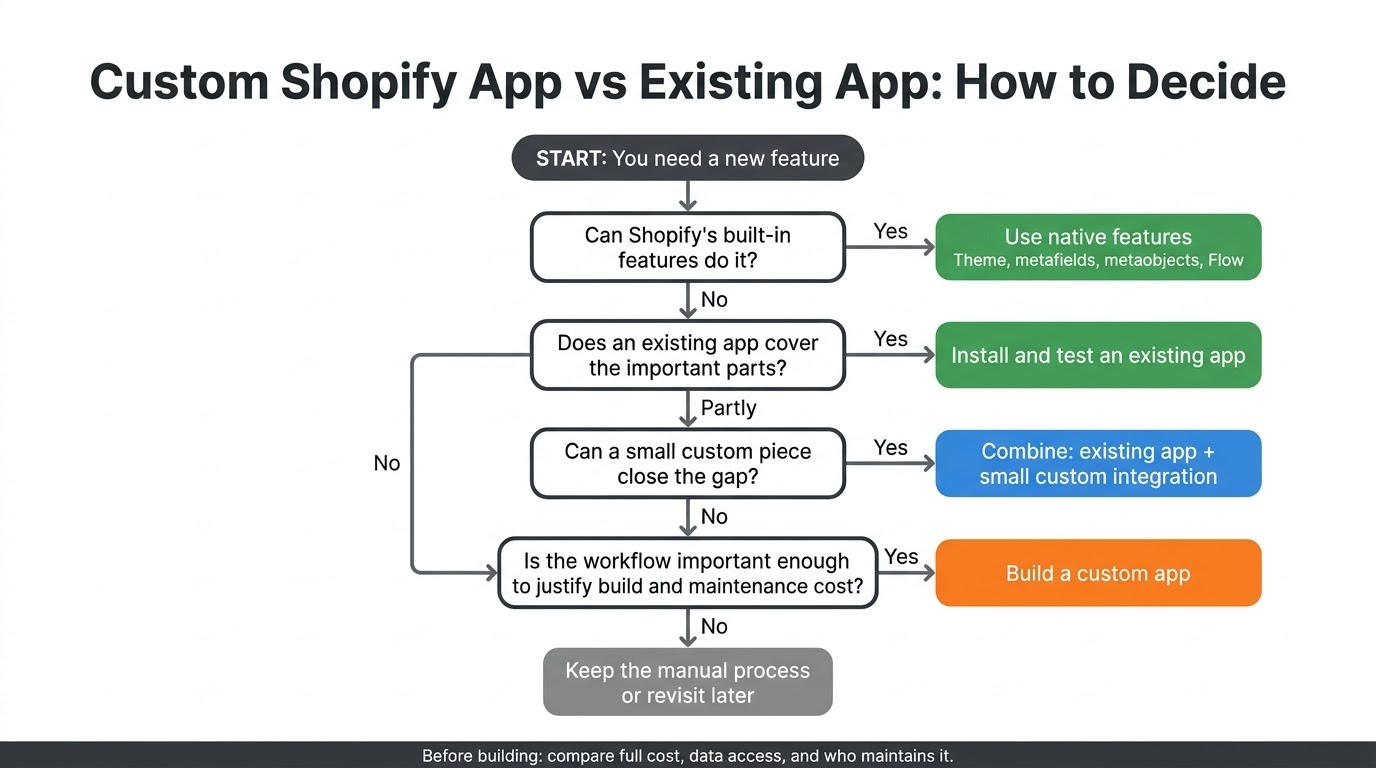
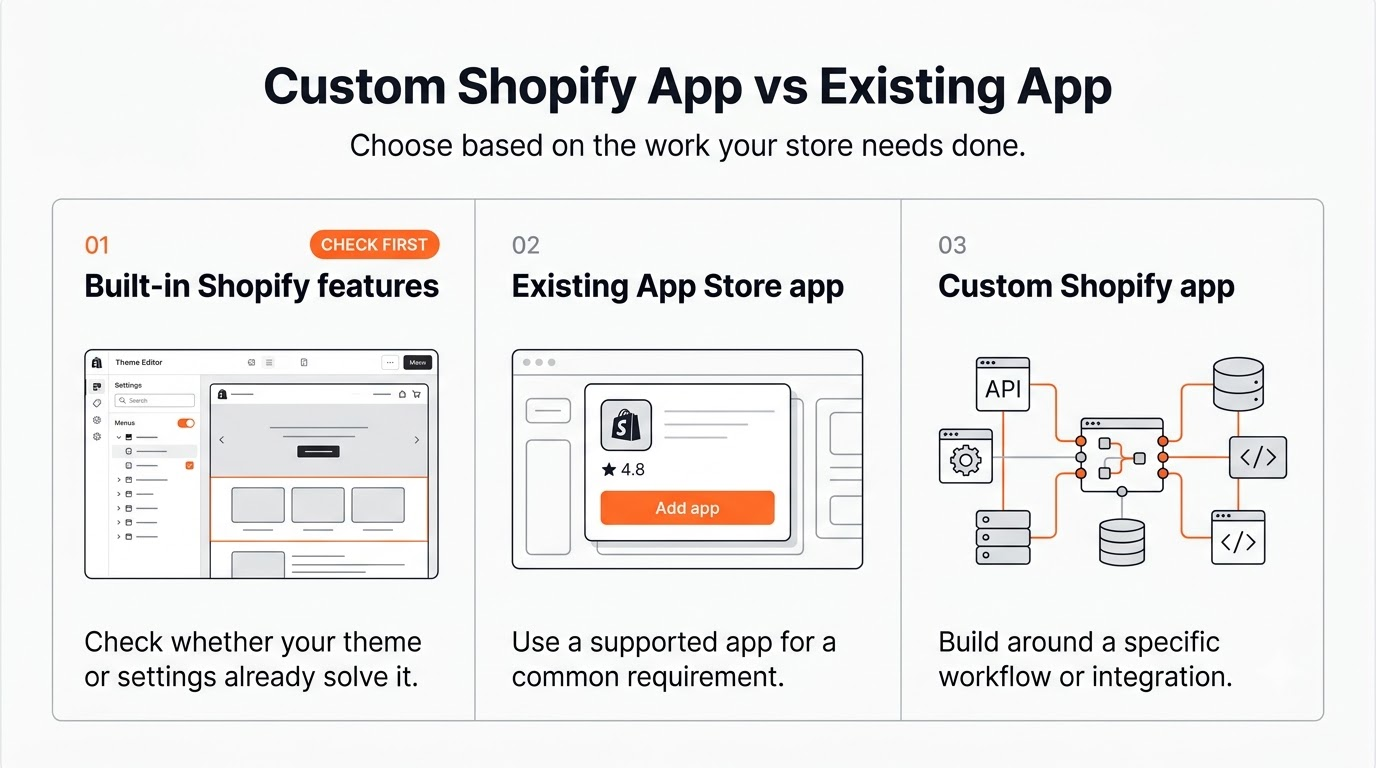
feat: rewrite custom Shopify app vs existing app blog post and add image assets

Changed region(s): [[0.0, 0.0625, 1.0, 1.0], [0.0625, 0.2812, 0.3438, 0.4062], [0.0625, 0.8125, 0.3125, 0.9062]]

diff --git a/src/app/(app)/blog/[slug]/page.tsx b/src/app/(app)/blog/[slug]/page.tsx
@@ -20,7 +20,7 @@ interface BlogPostPageProps {
 }
 
 const headerImageAltBySlug: Partial<Record<string, string>> = {
-  "custom-shopify-app-vs-existing-app": "Decision flowchart for choosing built-in Shopify features, an existing app, or custom development",
+  "custom-shopify-app-vs-existing-app": "Comparison of built-in Shopify features, an existing App Store app, and a custom Shopify app",
   "shopify-store-slow-how-to-fix": "Shopify speed diagnosis workflow for loading, interactions, and layout shifts",
   "woocommerce-to-shopify-migration-problems": "WooCommerce to Shopify migration overview: map data, test the store, and plan redirects",
   "headless-woocommerce-with-nextjs": "A Next.js storefront connects to a WooCommerce backend that manages products, inventory, and orders",
@@ -251,9 +251,7 @@ export default async function BlogPostPage({ params }: BlogPostPageProps) {
                   width={1376}
                   height={768}
                   sizes="(min-width: 1024px) 40vw, 100vw"
-                  className={slug !== "custom-shopify-app-vs-existing-app"
-                    ? "block h-auto w-full bg-white lg:h-full lg:object-contain"
-                    : "block h-auto w-full lg:h-full lg:object-cover"}
+                  className="block h-auto w-full bg-white lg:h-full lg:object-contain"
                 />
               )}
             </div>

diff --git a/content/blog/custom-shopify-app-vs-existing-app(re-write)/index.md b/content/blog/custom-shopify-app-vs-existing-app(re-write)/index.md
@@ -11,7 +11,7 @@ tags:
   - "Shopify integrations"
 date: "2025-02-13"
 updatedAt: "2026-11-03"
-image: "/blog/custom-shopify-app-vs-existing-app/cover.jpg"
+image: "/blog/custom-shopify-app-vs-existing-app/cover.webp"
 faqs:
   - question: "When should I build a custom Shopify app instead of installing an existing app?"
     answer: "Build a custom app when a business workflow matters and neither Shopify's built-in features nor an existing app can handle it reliably. Write down the exact rule or data field that's missing and test it with a real example. If an existing app covers the requirement with acceptable setup and support, use it. If the gap is just a product-page field or a layout change, a metafield and a theme edit may be enough."
@@ -70,6 +70,8 @@ Not every feature needs an app. If you want to add product specifications, a siz
 
 A similar approach applies to simple store design changes. You might only need a [custom theme section](/services/theme-development) or a small amount of Liquid code rather than a separate application with its own database and hosting.
 
+![A product page example shows how structured product information and a theme section can meet a storefront requirement](/blog/custom-shopify-app-vs-existing-app/01-check-built-in-features.webp)
+
 This is worth checking first because every additional tool creates something else to configure, test, and maintain. But don't force a native solution where it cannot meet the requirement. Shopify's built-in features also have limits, and availability can differ by plan.
 
 ## When an existing Shopify app is the better choice
@@ -92,6 +94,8 @@ Custom development becomes useful when the existing options cannot support an im
 
 Think about a store that uses a warehouse system with its own inventory rules. Orders might need to be split across locations, certain products may require special handling, and stock changes must be synchronized with Shopify. If an available connector cannot represent those rules correctly, a [custom Shopify integration](/services/backend-api) could be more suitable.
 
+![A warehouse integration evaluates location and handling rules before routing orders and syncing inventory back to Shopify](/blog/custom-shopify-app-vs-existing-app/02-when-custom-development-fits.webp)
+
 Another case is a made-to-order business. A customer may select custom measurements, and the order then moves through design approval, production, and delivery stages. You might be able to combine several existing tools, but a purpose-built system can be easier to operate if the workflow is central to the business.
 
 A custom app is not always needed for a custom storefront feature. Sometimes a theme customization, a small external service, or an existing app with an API can solve the problem. The right solution may be smaller than an entire application.
@@ -109,6 +113,8 @@ A fair comparison should include:
 - The quoted development cost for a custom replacement.
 - Hosting, maintenance, monitoring, and future feature changes.
 - The effort and risk involved in moving data from the existing app.
+
+![A cost comparison includes subscriptions, usage fees, and manual work for an existing app and development, hosting, and upkeep for a custom app](/blog/custom-shopify-app-vs-existing-app/03-compare-full-costs.webp)
 
 Compare these costs over a period that makes sense for your business. Also consider what you gain: fewer manual steps, better data accuracy, or a workflow that wasn't possible before. You don't need an invented break-even figure or a revenue threshold to make this decision.
 
@@ -134,6 +140,8 @@ Not automatically. An existing app can slow down a storefront if it loads unnece
 
 It also matters what the app does. An app that synchronizes orders in the background may have little direct effect on customer-facing page speed. A product recommendation widget that runs in the browser can have more impact because it adds frontend code and network requests.
 
+![A background order sync and a browser widget illustrate why storefront performance depends on what an app loads and runs](/blog/custom-shopify-app-vs-existing-app/04-measure-storefront-performance.webp)
+
 Before replacing an app because of performance, measure what is actually slowing down the store. Check the Network and Performance panels in browser developer tools, review scripts loaded on important pages, and compare results using Shopify's performance reports or other testing tools.
 
 Our [Shopify performance guide](/blog/shopify-performance-developer-guide) explains what to measure. Then decide whether the problem can be fixed by changing settings, removing unused features, improving theme integration, or replacing the app. Custom development should follow evidence, not an assumption that custom code is always lighter.
@@ -157,6 +165,8 @@ Custom apps and public apps also use Shopify APIs subject to permissions, rate l
 ## Sometimes the best choice is a combination
 
 You don't have to replace your entire app stack with custom software. A store might keep an established reviews app and email tool, while building one custom integration for its warehouse system.
+
+![A Shopify store keeps existing reviews and email apps while a custom integration connects its warehouse](/blog/custom-shopify-app-vs-existing-app/05-combine-existing-and-custom.webp)
 
 Or an existing app may provide most of the user-facing functionality, while a small custom service handles a missing data transformation between that app and an internal system. This can be more practical than rebuilding the whole application.
 

diff --git a/src/content/blog/custom-shopify-app-vs-existing-app.md b/src/content/blog/custom-shopify-app-vs-existing-app.md
@@ -11,7 +11,7 @@ tags:
   - "Shopify integrations"
 date: "2025-02-13"
 updatedAt: "2026-11-03"
-image: "/blog/custom-shopify-app-vs-existing-app/cover.jpg"
+image: "/blog/custom-shopify-app-vs-existing-app/cover.webp"
 faqs:
   - question: "When should I build a custom Shopify app instead of installing an existing app?"
     answer: "Build a custom app when a business workflow matters and neither Shopify's built-in features nor an existing app can handle it reliably. Write down the exact rule or data field that's missing and test it with a real example. If an existing app covers the requirement with acceptable setup and support, use it. If the gap is just a product-page field or a layout change, a metafield and a theme edit may be enough."
@@ -68,6 +68,8 @@ Not every feature needs an app. If you want to add product specifications, a siz
 
 A similar approach applies to simple store design changes. You might only need a [custom theme section](/services/theme-development) or a small amount of Liquid code rather than a separate application with its own database and hosting.
 
+![A product page example shows how structured product information and a theme section can meet a storefront requirement](/blog/custom-shopify-app-vs-existing-app/01-check-built-in-features.webp)
+
 This is worth checking first because every additional tool creates something else to configure, test, and maintain. But don't force a native solution where it cannot meet the requirement. Shopify's built-in features also have limits, and availability can differ by plan.
 
 ## When an existing Shopify app is the better choice
@@ -90,6 +92,8 @@ Custom development becomes useful when the existing options cannot support an im
 
 Think about a store that uses a warehouse system with its own inventory rules. Orders might need to be split across locations, certain products may require special handling, and stock changes must be synchronized with Shopify. If an available connector cannot represent those rules correctly, a [custom Shopify integration](/services/backend-api) could be more suitable.
 
+![A warehouse integration evaluates location and handling rules before routing orders and syncing inventory back to Shopify](/blog/custom-shopify-app-vs-existing-app/02-when-custom-development-fits.webp)
+
 Another case is a made-to-order business. A customer may select custom measurements, and the order then moves through design approval, production, and delivery stages. You might be able to combine several existing tools, but a purpose-built system can be easier to operate if the workflow is central to the business.
 
 A custom app is not always needed for a custom storefront feature. Sometimes a theme customization, a small external service, or an existing app with an API can solve the problem. The right solution may be smaller than an entire application.
@@ -107,6 +111,8 @@ A fair comparison should include:
 - The quoted development cost for a custom replacement.
 - Hosting, maintenance, monitoring, and future feature changes.
 - The effort and risk involved in moving data from the existing app.
+
+![A cost comparison includes subscriptions, usage fees, and manual work for an existing app and development, hosting, and upkeep for a custom app](/blog/custom-shopify-app-vs-existing-app/03-compare-full-costs.webp)
 
 Compare these costs over a period that makes sense for your business. Also consider what you gain: fewer manual steps, better data accuracy, or a workflow that wasn't possible before. You don't need an invented break-even figure or a revenue threshold to make this decision.
 
@@ -132,6 +138,8 @@ Not automatically. An existing app can slow down a storefront if it loads unnece
 
 It also matters what the app does. An app that synchronizes orders in the background may have little direct effect on customer-facing page speed. A product recommendation widget that runs in the browser can have more impact because it adds frontend code and network requests.
 
+![A background order sync and a browser widget illustrate why storefront performance depends on what an app loads and runs](/blog/custom-shopify-app-vs-existing-app/04-measure-storefront-performance.webp)
+
 Before replacing an app because of performance, measure what is actually slowing down the store. Check the Network and Performance panels in browser developer tools, review scripts loaded on important pages, and compare results using Shopify's performance reports or other testing tools.
 
 Our [Shopify performance guide](/blog/shopify-performance-developer-guide) explains what to measure. Then decide whether the problem can be fixed by changing settings, removing unused features, improving theme integration, or replacing the app. Custom development should follow evidence, not an assumption that custom code is always lighter.
@@ -155,6 +163,8 @@ Custom apps and public apps also use Shopify APIs subject to permissions, rate l
 ## Sometimes the best choice is a combination
 
 You don't have to replace your entire app stack with custom software. A store might keep an established reviews app and email tool, while building one custom integration for its warehouse system.
+
+![A Shopify store keeps existing reviews and email apps while a custom integration connects its warehouse](/blog/custom-shopify-app-vs-existing-app/05-combine-existing-and-custom.webp)
 
 Or an existing app may provide most of the user-facing functionality, while a small custom service handles a missing data transformation between that app and an internal system. This can be more practical than rebuilding the whole application.
 

diff --git a/content/blog/custom-shopify-app-vs-existing-app(re-write)/image-prompts-by-section/04-measure-storefront-performance.md b/content/blog/custom-shopify-app-vs-existing-app(re-write)/image-prompts-by-section/04-measure-storefront-performance.md
@@ -1,0 +1,18 @@
+# Measure storefront performance
+
+Dimensions: 1600 × 1000 px (8:5).
+
+Placement: After the background sync and browser widget comparison in “Performance: will a custom app make the store faster?”.
+
+Suggested alt text: A background order sync and a browser widget illustrate why storefront performance depends on what an app loads and runs.
+
+## Google Flow prompt
+
+Use a white background, near-black text, thin gray outlines, restrained orange accents, and flat illustrations. Create a still image with clear spacing and readable type. Use the supplied labels and short explanations.
+
+Create a split diagram titled “Measure what the app adds to the storefront”. On the left, illustrate Shopify exchanging orders with a warehouse behind the scenes. On the right, illustrate a recommendation widget inside a product page. Use these explanations:
+
+- “Background order sync” / “Runs between systems and may have little direct effect on page speed.”
+- “Storefront recommendation widget” / “Can load scripts and make network requests in the browser.”
+
+Under the two illustrations, add a checklist titled “Check an important page” with two lines: “Use the Network panel to see what loads.” and “Use the Performance panel to see what runs.” Draw no benchmark scores, speedometers, or before-and-after results.

diff --git a/content/blog/custom-shopify-app-vs-existing-app(re-write)/image-prompts-by-section/02-when-custom-development-fits.md b/content/blog/custom-shopify-app-vs-existing-app(re-write)/image-prompts-by-section/02-when-custom-development-fits.md
@@ -1,0 +1,19 @@
+# When custom development fits
+
+Dimensions: 1600 × 1000 px (8:5).
+
+Placement: After the warehouse example in “When you should consider a custom Shopify app”.
+
+Suggested alt text: A warehouse integration evaluates location and handling rules before routing orders and syncing inventory back to Shopify.
+
+## Google Flow prompt
+
+Use a white background, near-black text, thin gray outlines, restrained orange accents, and flat illustrations. Create a still image with clear spacing and readable type. Use the supplied labels and short explanations.
+
+Create a workflow diagram titled “When store rules need custom logic”. Draw three large blocks labeled “Shopify order”, “Custom routing logic”, and “Warehouse locations”. Connect them left to right. Add these explanations:
+
+- “Shopify order” / “Send the order to the integration.”
+- “Custom routing logic” / “Apply location and product handling rules.”
+- “Warehouse locations” / “Route each item to the right location.”
+
+Below the flow, draw a separate arrow from the warehouse side back to Shopify and label it “Sync stock changes back to Shopify.” Add the question “Can the existing connector handle these rules reliably?” as a callout. Present this as an illustrative workflow and use generic warehouse and storefront icons.

diff --git a/content/blog/custom-shopify-app-vs-existing-app(re-write)/image-prompts-by-section/01-check-built-in-features.md b/content/blog/custom-shopify-app-vs-existing-app(re-write)/image-prompts-by-section/01-check-built-in-features.md
@@ -1,0 +1,18 @@
+# Check Shopify’s built-in features
+
+Dimensions: 1600 × 1000 px (8:5).
+
+Placement: After the second paragraph of “Check Shopify’s built-in features before installing an app”.
+
+Suggested alt text: A product page example shows how structured product information and a theme section can meet a storefront requirement.
+
+## Google Flow prompt
+
+Use a white background, near-black text, thin gray outlines, restrained orange accents, and flat illustrations. Create a still image with clear spacing and readable type. Use the supplied labels and short explanations.
+
+Create a two-lane diagram titled “Check what Shopify already supports”. Show a product-page mockup on the right. On the left, show two common requests and the Shopify tools that can address them:
+
+- “Add product specifications” → “Metafields or metaobjects” / “Store structured details and display them through the theme.”
+- “Change the page layout” → “Theme section” / “Add or adjust a section where the theme supports it.”
+
+Connect the first lane to a specifications panel and the second to the layout around that panel. Add a final line under both lanes: “Confirm what your theme and plan support.” Use a simple product mockup with readable labels and no extra interface text.

diff --git a/content/blog/custom-shopify-app-vs-existing-app(re-write)/image-prompts-by-section/00-cover.md b/content/blog/custom-shopify-app-vs-existing-app(re-write)/image-prompts-by-section/00-cover.md
@@ -1,0 +1,19 @@
+# Cover
+
+Dimensions: 1600 × 900 px (16:9).
+
+Placement: Blog cover and header.
+
+Suggested alt text: Comparison of Shopify built-in features, an App Store app, and a custom app by the type of work each suits.
+
+## Google Flow prompt
+
+Use a white background, near-black text, thin gray outlines, restrained orange accents, and flat illustrations. Create a still image with clear spacing and readable type. Use the supplied labels and short explanations.
+
+Create a wide editorial cover titled “Custom Shopify App vs Existing App”. Add the subtitle “Choose based on the work your store needs done.” Below, illustrate these three choices side by side:
+
+- “Built-in Shopify features” / “Check whether your theme or settings already solve it.”
+- “Existing App Store app” / “Use a supported app for a common requirement.”
+- “Custom Shopify app” / “Build around a specific workflow or integration.”
+
+Use a theme editor, an app tile, and connected system blocks as the illustrations. Give the existing and custom options equal visual weight, with the built-in option clearly marked “Check first”. Keep the title and main illustrations inside the center of the canvas so they stay readable in a blog card.

diff --git a/content/blog/custom-shopify-app-vs-existing-app(re-write)/image-prompts-by-section/03-compare-full-costs.md b/content/blog/custom-shopify-app-vs-existing-app(re-write)/image-prompts-by-section/03-compare-full-costs.md
@@ -1,0 +1,18 @@
+# Compare the full costs
+
+Dimensions: 1600 × 1000 px (8:5).
+
+Placement: After the cost comparison list in “Development cost vs app subscription cost”.
+
+Suggested alt text: A cost comparison includes subscriptions, usage fees, and manual work for an existing app and development, hosting, and upkeep for a custom app.
+
+## Google Flow prompt
+
+Use a white background, near-black text, thin gray outlines, restrained orange accents, and flat illustrations. Create a still image with clear spacing and readable type. Use the supplied labels and short explanations.
+
+Create a two-column comparison titled “Compare costs over the same period”. Give each column a short checklist:
+
+- “Existing app” / “Subscription and usage fees” / “Configuration and support terms” / “Staff time spent on workarounds”.
+- “Custom app” / “Discovery, development, and testing” / “Hosting and monitoring” / “Maintenance and API updates”.
+
+Below the columns, show a shared strip labeled “Include migration work where it applies.” Use checklists and simple icons with no prices, charts, or break-even figures. Keep both options visually neutral so the reader compares their own costs.

diff --git a/content/blog/custom-shopify-app-vs-existing-app(re-write)/image-prompts-by-section/05-combine-existing-and-custom.md b/content/blog/custom-shopify-app-vs-existing-app(re-write)/image-prompts-by-section/05-combine-existing-and-custom.md
@@ -1,0 +1,18 @@
+# Combine existing and custom tools
+
+Dimensions: 1600 × 1000 px (8:5).
+
+Placement: After the opening example in “Sometimes the best choice is a combination”.
+
+Suggested alt text: A Shopify store keeps existing reviews and email apps while a custom integration connects its warehouse.
+
+## Google Flow prompt
+
+Use a white background, near-black text, thin gray outlines, restrained orange accents, and flat illustrations. Create a still image with clear spacing and readable type. Use the supplied labels and short explanations.
+
+Create a hub diagram titled “Keep what works. Build for the gap.” Put “Shopify store” in the center. On one side group two app cards under “Keep existing apps”:
+
+- “Reviews app” / “Collect and display product reviews.”
+- “Email tool” / “Keep the marketing workflows already in use.”
+
+On the other side show “Custom warehouse integration” / “Handle the stock or order rules the existing tools miss.” Connect this card to a generic warehouse icon. Use visual grouping to show which tools stay and where the custom work sits. Add the line “Replace only the part that needs custom logic.” beneath the diagram.

diff --git a/content/blog/custom-shopify-app-vs-existing-app(re-write)/image-prompts-by-section/README.md b/content/blog/custom-shopify-app-vs-existing-app(re-write)/image-prompts-by-section/README.md
@@ -1,0 +1,14 @@
+# Custom Shopify App vs Existing App image prompts
+
+Paste [the agent instructions](agent-instruction.md) into Google Flow’s agent instructions field. For each image, paste everything under **Google Flow prompt** in the corresponding file. The prompts include dimensions, suggested placement, and alt text.
+
+The cover introduces the three choices. The five section diagrams explain where each approach fits, what it costs to run, and what to check before choosing.
+
+| Prompt | Dimensions |
+| --- | --- |
+| [Cover](00-cover.md) | 1600 × 900 px (16:9) |
+| [Check Shopify’s built-in features](01-check-built-in-features.md) | 1600 × 1000 px (8:5) |
+| [When custom development fits](02-when-custom-development-fits.md) | 1600 × 1000 px (8:5) |
+| [Compare the full costs](03-compare-full-costs.md) | 1600 × 1000 px (8:5) |
+| [Measure storefront performance](04-measure-storefront-performance.md) | 1600 × 1000 px (8:5) |
+| [Combine existing and custom tools](05-combine-existing-and-custom.md) | 1600 × 1000 px (8:5) |

diff --git a/content/blog/custom-shopify-app-vs-existing-app(re-write)/image-prompts-by-section/agent-instruction.md b/content/blog/custom-shopify-app-vs-existing-app(re-write)/image-prompts-by-section/agent-instruction.md
@@ -1,0 +1,5 @@
+# Google Flow agent instructions
+
+Use a clear title, descriptive labels, and short explanatory lines where they help the reader understand what happens, who handles it, or what to check. Use the copy supplied in the image prompt. Pair each explanation with its visual, keep the type readable on mobile, and give the text enough room to breathe. If the layout feels crowded, rearrange the cards or remove decoration before reducing the text size. Check technical names and spelling before exporting.
+
+Use a white background, near-black text, thin gray outlines, restrained orange accents, and clean sans-serif typography. Use flat illustrations and arrows with a clear direction. Create a still image. Keep all technical details consistent with the prompt.
